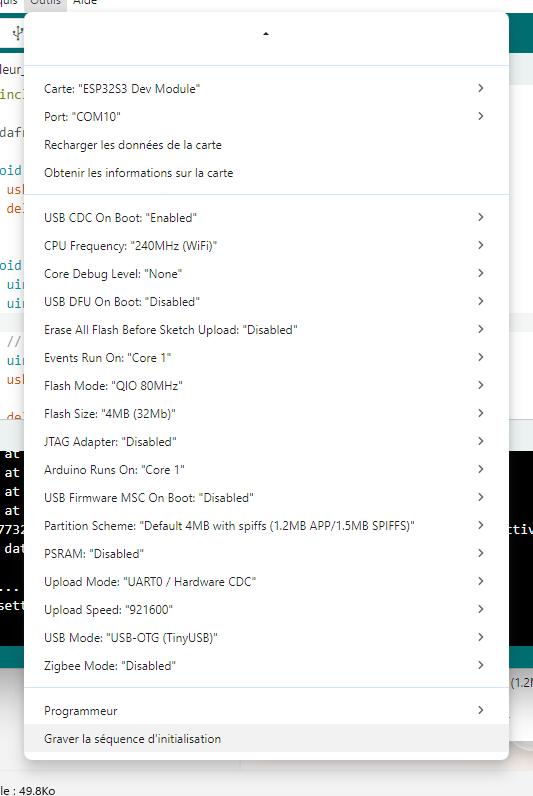
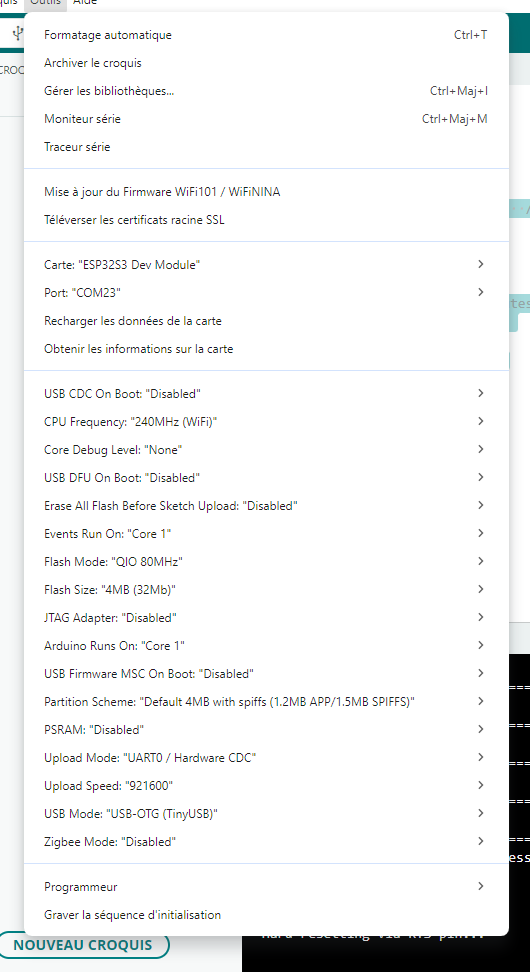
finalisation tuto

diff --git a/Controleur Midi/01 - ESP32 Arduino - USB‑C MIDI Controleur - Premiere Programmation/README.md b/Controleur Midi/01 - ESP32 Arduino - USB‑C MIDI Controleur - Premiere Programmation/README.md
@@ -108,6 +108,7 @@ Le port USB‑C permet :
 compatibilité plug‑and‑play
 
 ## 4. Puissance et polyvalence
+
 L’ESP32‑S3 offre :
  * un double cœur
  * du Bluetooth LE
@@ -130,10 +131,7 @@ C’est la vraie solution si tu veux faire un contrôleur MIDI USB.
 
 Modèles compatibles :
  * ESP32‑S3 DevKitC‑1
- * ESP32‑S3 N8R8
- * LilyGO ESP32‑S3 Zero (version officielle)
- * UnexpectedMaker TinyS3 / FeatherS3
- * Waveshare ESP32‑S3
+ * ESP32‑S3 N16R8
  * ...
 
 Certaines cartes contiennent un convertisseur USB‑Série externe  
@@ -148,11 +146,12 @@ Modèles non compatibles :
 
 ## 🧰 Choisir un environnement de développement (IDE)
 
-Il existe plusieurs IDE, ci-dessous nous allons en comparer 2:
+Il existe plusieurs IDE, ci-dessous nous allons en comparer 3:
  * Arduino
  * PlatformIO
+ * ESP-IDF
 
-Pour le tutoriel nous utiliserons Arduino. 
+Pour le tutoriel nous utiliserons Arduino IDE. 
 
 ### Arduino IDE (simple, débutants)
 
@@ -165,8 +164,18 @@ Pour le tutoriel nous utiliserons Arduino.
 ### PlatformIO (avancé, pro)
 
  * Intégré dans VS Code
+ * Platform multi environment flexible
  * Gestion propre des dépendances
  * Environnements multiples
+
+👉 Recommandé pour un projet MIDI plus complexe.
+
+### ESP‑IDF (avancé, pro)
+
+ * Intégré dans VS Code
+ * Framework bas niveau
+ * Gestion propre des dépendances
+ * Natif pur ESP
 
 👉 Recommandé pour un projet MIDI plus complexe.
 
@@ -183,9 +192,23 @@ Suivre les étapes suivantes:
 Suivre les étapes suivantes:
 1. Aller dans Fichier → Préférences
 2. Ajouter l’URL : [https://espressif.github.io/arduino-esp32/package_esp32_index.json](https://espressif.github.io/arduino-esp32/package_esp32_index.json)
-3. Choisir le type de carte:  Outils → Type de carte → ESP32S3 Dev Module
-4. Choisir le mode USB: Outils → USB Mode → USB OTG (TinyUSB)
-5. Choisr l'USB firmware: Outils → USB CDC On Boot → Enabled
+3. Aller dans Gestionnaire de cartes (menu sur la gauche)
+4. Rechercher esp32 par Espressif Systems
+5. Installer la dernière version (le tutoriel est réalisé avec la version 3.3.10, en cas de problème, utiliser cette version)
+
+## 🧩 Configuration du projet dans Arduino IDE
+
+1. Aller dans Fichier → Enregistrer sous...
+2. Choisir un dossier dont le chemin ne contient pas de caractères spéciaux
+3. Choisir un nom sans espaces ni caractères spéciaux
+4. Confirmer
+5. Un nouveau croquis est créé, vérifier que le fichier et le nom de dossier créés correspondent
+
+## 🧩 Configuration de la carte dans Arduino IDE
+
+1. Choisir le type de carte:  Outils → Type de carte → ESP32S3 Dev Module
+2. Choisir le mode USB: Outils → USB Mode → USB OTG (TinyUSB)
+3. Choisr l'USB firmware: Outils → USB CDC On Boot → Disabled
 
 ![config_esp32_arduino](images/config_esp32_arduino.png)
 
@@ -193,52 +216,24 @@ Suivre les étapes suivantes:
 
 ## 🎼 Quelle librairie installer ?
 
-Pour que l’ESP32 puisse se comporter comme un périphérique MIDI USB, il faut utiliser la librairie :
- * Adafruit TinyUSB Library
+Pour que l’ESP32 puisse se comporter comme un périphérique MIDI USB, il faut utiliser les librairies mises à disposition par Espressif pour l'ESP32.
 
-C’est elle qui permet :
+Elles sont installées automatiquement grace à l'ajout de esp32 dans le gestionnaire de carte.
+
+Elles permettent :
  * la gestion du port USB natif
  * la création d’un périphérique MIDI
  * l’envoi de messages MIDI (Note On, Note Off, CC…)
 
-👉 Elle est indispensable pour ce projet.
-
-## 📥 Comment installer la librairie (Arduino IDE)
-
- * Méthode 1 — Installation automatique (recommandée)
-    1. Ouvrir Arduino IDE
-    2. Aller dans Outils → Gérer les bibliothèques…
-    3. Chercher : Adafruit TinyUSB Library
-    4. Cliquer sur Installer
-
-C’est tout — Arduino IDE gère les dépendances automatiquement.
-
-* Méthode 2 — Installation manuelle (si besoin)
-    1. Aller sur le GitHub officiel de Adafruit TinyUSB: [https://github.com/Adafruit/adafruit_tinyusb_arduino](https://github.com/Adafruit/adafruit_tinyusb_arduino)
-    2. Télécharger le ZIP
-    3. Arduino IDE → Croquis → Inclure une bibliothèque → Ajouter la bibliothèque .ZIP
-    4. Sélectionner le fichier ZIP
-
-## 🧪 Vérifier que la librairie fonctionne
-
-Dans ton code, tu dois pouvoir inclure :
-
-```cpp
-#include "Adafruit_TinyUSB.h"
-```
-
-Si aucune erreur n’apparaît → la librairie est bien installée.
-
+👉 Elles sont indispensable pour ce projet.
 
 ## 🎹 Exemple de code : envoyer une note MIDI
 
-TEsts faits et fonctionnant le 29 juin 2026
-Le code suivant envoi la note C4 toutes les 2 secondes environ
+Le code suivant envoi la note C4 toutes les secondes environ
 
-Adafruit_TinyUSB_Arduino: 3.7.7
-ESP32-BLE-MIDI 0.3.2
-arduino_midi_library 5.0.2
-NimBLE-Arduino 2.5.0
+Dependances:
+ * Cartes:
+    * esp32 par Espressif Systems - 3.3.10
 
 ```cpp
 #include "USB.h"
@@ -263,14 +258,9 @@ void loop() {
 
 ## 🧪 Compilation
 
-Dans Arduino IDE :
 1. Sélectionner la carte ESP32‑S2/S3
 2. Sélectionner le port USB‑C
 3. Cliquer sur Vérifier pour compiler
-
-Dans PlatformIO :
-1. Ouvrir le projet
-2. Cliquer sur Build
 
 ## ⚡ Flashage de l’ESP32
 
@@ -411,207 +401,13 @@ Explication rapide:
 Dans TinyUSB, tu envoies une note ainsi :
 
 ```cpp
-  uint8_t msgOn[3] = {0x90, 60, 100};
-  usb_midi.write(msgOn, 3);
-  uint8_t msgOff[3] = {0x80, 60, 100};
-  usb_midi.write(msgOff, 3);
+  MIDI.noteOn(60, 100, 1)
+  MIDI.noteOff(60, 0, 1);
 ```
 
-Remarque: le 3 signifie dans la method write c'est le nombre d’octets (bytes) envoyé dans le message MIDI.
-
-Un message MIDI standard (Note On / Note Off) contient toujours 3 octets
-
-Les paramètres sont :
- * Status Byte 
- * Numéro de note MIDI (0–127)
- * Vélocité (0–127)
+* noteOn et noteOff sont les méthodes de l'objet MIDI à appeler suivant le type de message MIDI
+* la première variable contient la note (60)
+* la seconde variable contient l'intensité de la note (entre 0 et 127)
+* la dernière variable contient le canal (1)
 
 Tu peux donc envoyer n’importe quelle note en utilisant les tableaux ci‑dessus.
-
-
-
-
-
-
-
-
-Aujourd’hui
-dans arduino, peut on creer un controleur naif base sur esp32s3
-Oui — absolument, tu peux créer un contrôleur “naïf” (simple, minimaliste) basé sur un ESP32‑S3 dans l’environnement Arduino.
-Et même mieux : l’ESP32‑S3 est officiellement supporté par Arduino via le core Espressif, ce qui permet de programmer la puce comme un Arduino classique (setup/loop, digitalWrite, etc.). 
-
-🧩 Réponse courte
-Oui, c’est possible.
-Il suffit d’installer le support ESP32 dans l’IDE Arduino, sélectionner ton modèle ESP32‑S3, puis coder ton contrôleur comme n’importe quel sketch Arduino.
-
-🧠 Ce que signifie “contrôleur naïf” sur ESP32‑S3
-Un contrôleur naïf = un contrôleur très simple, sans optimisation ni architecture complexe.
-Sur ESP32‑S3, cela peut être :
-
-lire quelques GPIO
-
-piloter des relais / moteurs
-
-envoyer des messages via UART / I2C / SPI
-
-faire du Wi‑Fi ou du Bluetooth sans gestion avancée
-
-exécuter une boucle loop() simple
-
-L’ESP32‑S3 est largement capable de ça — même si c’est une puce très puissante (USB natif, instructions IA, PSRAM, Wi‑Fi/BLE).
-
-⚙️ Comment programmer un ESP32‑S3 dans Arduino IDE
-1. Installer Arduino IDE 2.x
-(Indispens
-
-dans arduino, peut on creer un controleur natif base sur esp32s3
-Oui — tu peux créer un contrôleur natif basé sur un ESP32‑S3 dans l’environnement Arduino, et c’est même l’un des usages les plus courants de cette puce.
-
-La confusion vient souvent du mot natif.
-Dans le monde ESP32, natif peut vouloir dire deux choses :
-
-Programmer l’ESP32‑S3 directement via le core Arduino (setup/loop, digitalWrite, etc.)
-
-Programmer l’ESP32‑S3 en “natif” via l’ESP-IDF, sans Arduino
-
-👉 La bonne nouvelle : les deux sont possibles.  
-Et si tu veux un contrôleur simple, minimaliste, Arduino est parfait.
-
-🚀 ESP32‑S3 + Arduino : oui, c’est supporté
-L’ESP32‑S3 est officiellement compatible avec l’IDE Arduino via le core Espressif.
-
-Tu peux donc :
-
-écrire un sketch classique (setup() / loop())
-
-dans arduino, peut on creer un controleur natif base sur esp32s3 reconnu comme controleur mdi dans peripherique audio video et media
-Oui — techniquement c’est possible, mais pas directement via Arduino : pour qu’un ESP32‑S3 soit reconnu comme “contrôleur MDI” (ou plus précisément périphérique USB Audio/MIDI dans Périphériques audio, vidéo et jeu sous Windows), il faut utiliser l’USB natif du S3 et implémenter un device USB MIDI class‑compliant.
-
-Et c’est là que la nuance est importante :
-
-🎯 Conclusion rapide
-Oui, un ESP32‑S3 peut devenir un contrôleur USB MIDI natif reconnu automatiquement par Windows/macOS/Linux.
-
-Non, Arduino ne fournit pas nativement la pile USB nécessaire.
-
-Oui, tu peux le faire depuis Arduino grâce à la TinyUSB intégrée au core ESP32‑S3.
-
-👉 Donc : c’est faisable, mais pas “plug‑and‑play”.
-
-🧩 Pourquoi l’ESP32‑S3 peut faire du MIDI USB natif
-L’ESP32‑S3 possède :
-
-un contrôleur USB OTG natif
-
-support officiel de TinyUSB dans le core Arduino ESP32
-
-possibilité de créer des devices USB : HID, CDC, MIDI, Audio, etc.
-
-Ce qui permet de le faire reconnaître comme :
-
-USB MIDI Device
-
-USB HID Gamepad
-
-USB Audio Device (plus complexe)
-
-🎹 Créer un contrôleur MIDI USB avec ESP32‑S3 (Arduino)
-Voici un exemple minimaliste basé sur TinyUSB (fourni dans le core ESP32‑S3 Arduino) :
-
-cpp
-#include "USB.h"
-#include "USBMIDI.h"
-
-USBMIDI midi;
-
-void setup() {
-  USB.begin();
-}
-
-void loop() {
-  midi.sendNoteOn(60, 127, 1);  // Note ON
-  delay(500);
-  midi.sendNoteOff(60, 0, 1);  // Note OFF
-  delay(500);
-}
-➡️ Une fois flashé, Windows affichera :
-Périphérique audio, vidéo et jeu → USB MIDI Device
-
-
-Installer le support ESP32-S3 dans Arduino
-Arduino doit connaître les cartes ESP32 pour compiler le firmware USB MIDI.
-
-Arduino IDE → Préférences → Additional Boards Manager URLs
-
-Ajoute l’URL : https://espressif.github.io/arduino-esp32/package_esp32_index.json
-
-Ouvre Tools → Board → Boards Manager
-
-Installe esp32 by Espressif Systems
-
-Sélectionne ESP32S3 Dev Module
-
-02
-Activer TinyUSB (mode USB-OTG)
-Indispensable
-Le MIDI USB nécessite la pile USB native TinyUSB.
-
-Tools → USB Mode
-
-Choisis USB-OTG (TinyUSB)
-
-Désactive USB CDC On Boot si présent
-
-Vérifie que ton câble USB est connecté au port USB natif (pas UART)
-
-03
-Inclure les bibliothèques USB MIDI
-Le core Arduino ESP32 fournit USBMIDI via TinyUSB.
-
-Ajoute en haut du sketch :
-
-cpp
-#include "USB.h"
-#include "USBMIDI.h"
-Déclare ton device :
-
-cpp
-USBMIDI MIDI;
-04
-Initialiser l’USB et envoyer une note MIDI
-Une fois USB initialisé, l’ESP32-S3 apparaît comme périphérique MIDI class‑compliant.
-
-Exemple minimal :
-
-cpp
-void setup() {
-  USB.begin();
-}
-void loop() {
-  MIDI.sendNoteOn(60, 127, 1);
-  delay(500);
-  MIDI.sendNoteOff(60, 0, 1);
-  delay(500);
-}
-Compile et téléverse sur l’ESP32‑S3
-
-05
-Tester la reconnaissance MIDI sur l’ordinateur
-Le périphérique doit apparaître comme USB MIDI Device.
-
-Sous Windows : vérifie dans Périphériques audio, vidéo et jeu
-
-Sous macOS : ouvre Audio MIDI Setup
-
-Utilise un moniteur MIDI (MIDI‑OX, SimpleSynth, etc.) pour voir les notes
-
-06
-Ajouter des boutons, capteurs ou sliders
-Personnalisation
-Tu peux envoyer des messages MIDI selon tes entrées physiques.
-
-Lis tes GPIO (boutons, potentiomètres, capteurs)
-
-Envoie des messages : sendControlChange(), sendNoteOn(), sendPitchBend()
-
-L’ESP32‑S3 gère aussi le MIDI 2.0 via la lib tusb_ump si tu veux aller plus loin